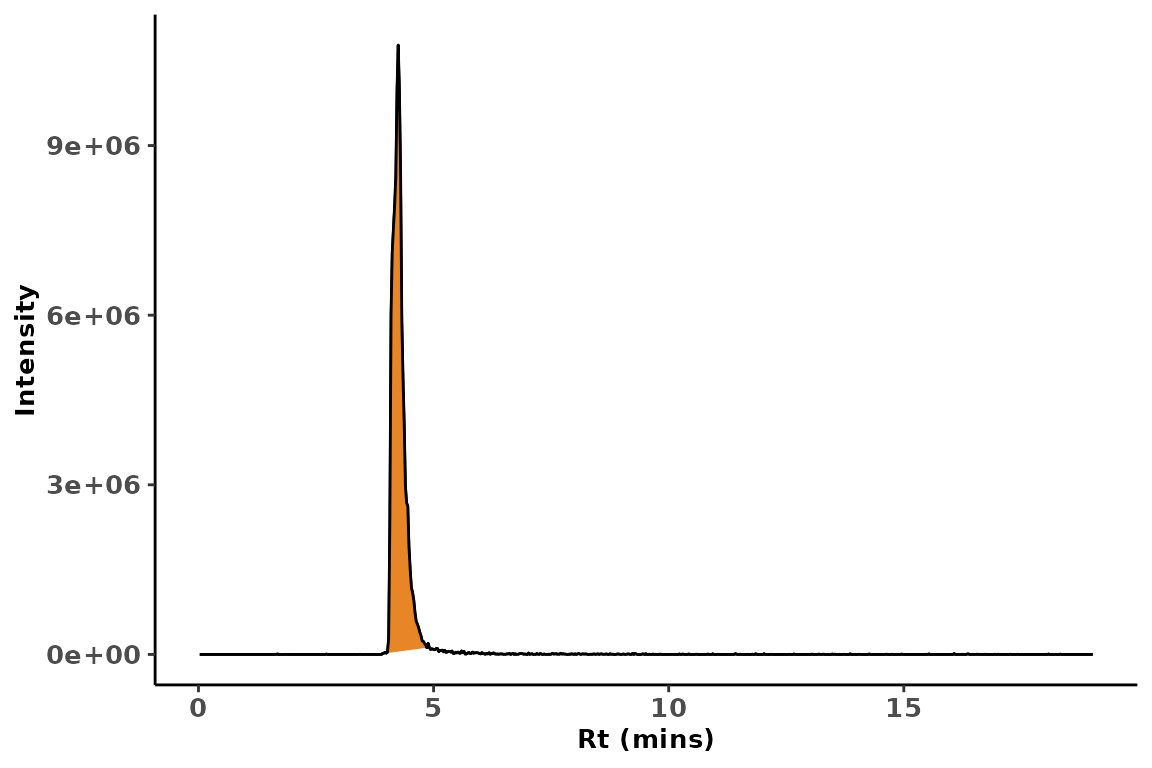
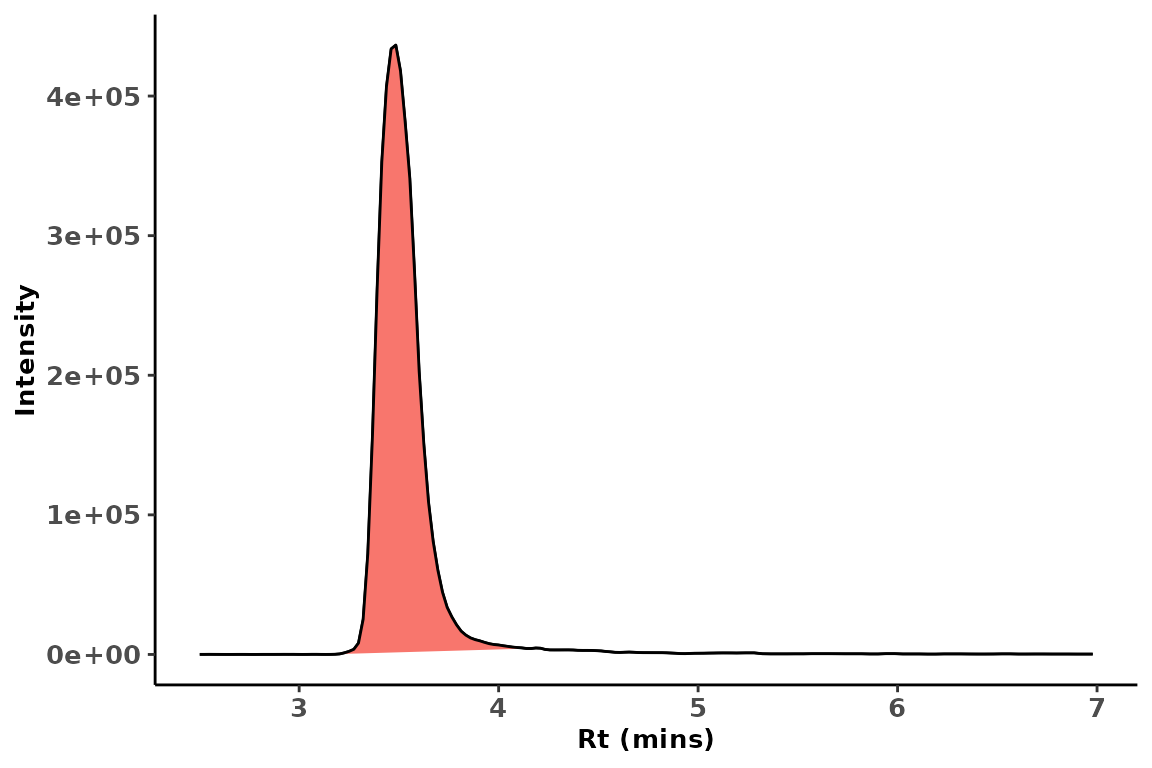
re-build pkgdown site

diff --git a/docs/articles/sRm.html b/docs/articles/sRm.html
@@ -101,18 +101,18 @@
 <span class="co">#&gt; Loading required package: ggplot2</span>
 <span class="co">#&gt; Loading required package: magrittr</span>
 
-<span class="va">chrom_files</span> <span class="op">&lt;-</span> <span class="fu"><a href="https://rdrr.io/r/base/list.files.html">list.files</a></span><span class="op">(</span><span class="fu"><a href="https://rdrr.io/r/base/system.file.html">system.file</a></span><span class="op">(</span><span class="st">'extdata/Thermo_RAW'</span>, package <span class="op">=</span> <span class="st">'sRm'</span><span class="op">)</span>, full.names <span class="op">=</span> <span class="cn">TRUE</span><span class="op">)</span>
+<span class="va">chrom_files</span> <span class="op">&lt;-</span> <span class="fu"><a href="https://rdrr.io/r/base/list.files.html">list.files</a></span><span class="op">(</span><span class="fu"><a href="https://rdrr.io/r/base/system.file.html">system.file</a></span><span class="op">(</span><span class="st">'extdata/Shimadzu_LCD'</span>, package <span class="op">=</span> <span class="st">'sRm'</span><span class="op">)</span>, full.names <span class="op">=</span> <span class="cn">TRUE</span><span class="op">)</span>
 
-<span class="va">srmExp</span> <span class="op">&lt;-</span> <span class="fu"><a href="../reference/openSRM.html">openSRM</a></span><span class="op">(</span><span class="va">chrom_files</span>, source_type <span class="op">=</span> <span class="st">'raw'</span><span class="op">)</span>
+<span class="va">srmExp</span> <span class="op">&lt;-</span> <span class="fu"><a href="../reference/openSRM.html">openSRM</a></span><span class="op">(</span><span class="va">chrom_files</span>, source_type <span class="op">=</span> <span class="st">'lcd'</span><span class="op">)</span>
 
 <span class="va">srmExp</span>
 <span class="co">#&gt; ── SRM Object ──────────────────────────────────────────────────── sRm v0.2.1 ── </span>
 <span class="co">#&gt;  </span>
 <span class="co">#&gt; SRM File Inputs: 4 </span>
 <span class="co">#&gt;  </span>
-<span class="co">#&gt; Transitions measured: 86 </span>
+<span class="co">#&gt; Transitions measured: 107 </span>
 <span class="co">#&gt;  </span>
-<span class="co">#&gt; Object Size: 7.9 Mb</span></code></pre></div>
+<span class="co">#&gt; Object Size: 2.5 Mb</span></code></pre></div>
 <p>The <code>SRM</code> object contains the following data;</p>
 <ul>
 <li>
@@ -168,7 +168,7 @@
 <a href="#plotparent" class="anchor"></a>plotParent</h4>
 <p><code>plotParent</code> use a numeric value of parent mass as an input, and plots all SRM transitions which feature the selected parent mass.</p>
 <div class="sourceCode" id="cb5"><pre class="downlit sourceCode r">
-<code class="sourceCode R"><span class="fu"><a href="../reference/plotParent.html">plotParent</a></span><span class="op">(</span><span class="va">srmExp</span>, <span class="fl">187.026</span><span class="op">)</span></code></pre></div>
+<code class="sourceCode R"><span class="fu"><a href="../reference/plotParent.html">plotParent</a></span><span class="op">(</span><span class="va">srmExp</span>, <span class="fl">303</span><span class="op">)</span></code></pre></div>
 <p><img src="sRm_files/figure-html/plotParent-1.png" width="576" style="display: block; margin: auto;"></p>
 </div>
 </div>
@@ -179,11 +179,11 @@
 <div class="sourceCode" id="cb6"><pre class="downlit sourceCode r">
 <code class="sourceCode R"><span class="va">srmExpPeaks</span> <span class="op">&lt;-</span>
   <span class="fu"><a href="../reference/detectPeaks.html">detectPeaks</a></span><span class="op">(</span><span class="va">srmExp</span>,
-              snthresh <span class="op">=</span> <span class="fl">2</span>,
-              peakwidth <span class="op">=</span> <span class="fu"><a href="https://rdrr.io/r/base/c.html">c</a></span><span class="op">(</span><span class="fl">5</span>,<span class="fl">60</span><span class="op">)</span><span class="op">)</span></code></pre></div>
+              snthresh <span class="op">=</span> <span class="fl">5</span>,
+              peakwidth <span class="op">=</span> <span class="fu"><a href="https://rdrr.io/r/base/c.html">c</a></span><span class="op">(</span><span class="fl">5</span>,<span class="fl">75</span><span class="op">)</span><span class="op">)</span></code></pre></div>
 <p>The <code>plotPeakArea</code> can then be used to determine the quality of the peak integration.</p>
 <div class="sourceCode" id="cb7"><pre class="downlit sourceCode r">
-<code class="sourceCode R"><span class="fu"><a href="../reference/plotPeakArea.html">plotPeakArea</a></span><span class="op">(</span><span class="va">srmExpPeaks</span>, index <span class="op">=</span> <span class="fl">11</span>, sampleName <span class="op">=</span> <span class="st">'QC02'</span><span class="op">)</span></code></pre></div>
+<code class="sourceCode R"><span class="fu"><a href="../reference/plotPeakArea.html">plotPeakArea</a></span><span class="op">(</span><span class="va">srmExpPeaks</span>, index <span class="op">=</span> <span class="fl">5</span>, sampleName <span class="op">=</span> <span class="st">'QC02'</span><span class="op">)</span></code></pre></div>
 <p><img src="sRm_files/figure-html/plotArea-1.png" width="576" style="display: block; margin: auto;"></p>
 </div>
 <div id="peak-grouping" class="section level3">
@@ -191,7 +191,34 @@
 <a href="#peak-grouping" class="anchor"></a>Peak Grouping</h3>
 <p>Once peak detection has been performed, the <code>groupPeaks</code> method can be used to assign features to corresponding peak groups. The only parameter that needs to be set is <code>rt_tolerance</code> which is the retention time width which will be used to group similar peaks together.</p>
 <div class="sourceCode" id="cb8"><pre class="downlit sourceCode r">
-<code class="sourceCode R"><span class="va">srmExpGroups</span> <span class="op">&lt;-</span> <span class="fu"><a href="../reference/groupPeaks.html">groupPeaks</a></span><span class="op">(</span><span class="va">srmExpPeaks</span>, rt_tolerance <span class="op">=</span> <span class="fl">1.5</span><span class="op">)</span></code></pre></div>
+<code class="sourceCode R"><span class="va">srmExpGroups</span> <span class="op">&lt;-</span> <span class="fu"><a href="../reference/groupPeaks.html">groupPeaks</a></span><span class="op">(</span><span class="va">srmExpPeaks</span>, rt_tolerance <span class="op">=</span> <span class="fl">0.5</span><span class="op">)</span></code></pre></div>
+<p>A summary of the peak groups can created using the <code>groupSummary</code> method.</p>
+<div class="sourceCode" id="cb9"><pre class="downlit sourceCode r">
+<code class="sourceCode R"><span class="va">group_table</span> <span class="op">&lt;-</span> <span class="fu"><a href="../reference/groupSummary.html">groupSummary</a></span><span class="op">(</span><span class="va">srmExpGroups</span><span class="op">)</span>
+
+<span class="fu"><a href="https://rdrr.io/r/utils/head.html">head</a></span><span class="op">(</span><span class="va">group_table</span><span class="op">)</span>
+<span class="co">#&gt; # A tibble: 6 x 8</span>
+<span class="co">#&gt; # Groups:   transition [3]</span>
+<span class="co">#&gt;   transition      GroupID    Rt Rtmin Rtmax Rtwidth      SN count</span>
+<span class="co">#&gt;   &lt;chr&gt;           &lt;chr&gt;   &lt;dbl&gt; &lt;dbl&gt; &lt;dbl&gt;   &lt;dbl&gt;   &lt;dbl&gt; &lt;int&gt;</span>
+<span class="co">#&gt; 1 204 &gt; 118.1 (+) G001     5.00  4.58  6.21   1.63     121.     4</span>
+<span class="co">#&gt; 2 204 &gt; 118.1 (+) G002     6.50  6.37  6.99   0.621  16561.     3</span>
+<span class="co">#&gt; 3 204 &gt; 144 (+)   G003     5.00  4.58  6.25   1.67  242567.     3</span>
+<span class="co">#&gt; 4 204 &gt; 144 (+)   G004     6.73  6.37  6.99   0.621  14830.     4</span>
+<span class="co">#&gt; 5 204 &gt; 162 (+)   G005     4.99  4.58  6.17   1.59     411      2</span>
+<span class="co">#&gt; 6 204 &gt; 162 (+)   G006     6.50  6.17  6.99   0.828   5285.     5</span></code></pre></div>
+<p>The output of the <code>groupSummary</code> method is a <code>tibble</code> so it can be easily processed further using <code>dplyr</code> to produce a list of the main GroupIDs which need exporting for further analysis.</p>
+<p>For example, we can filter out any group which have low occupancy (and suspiciously high occupancy), have retention times in the wash phase of the chromatogram gradient or the peak width is too large.</p>
+<div class="sourceCode" id="cb10"><pre class="downlit sourceCode r">
+<code class="sourceCode R"><span class="va">number_of_samples</span> <span class="op">&lt;-</span> <span class="fu"><a href="https://rdrr.io/r/base/nrow.html">nrow</a></span><span class="op">(</span><span class="va">srmExp</span><span class="op">@</span><span class="va">meta</span><span class="op">)</span>
+
+<span class="va">group_table_filtered</span> <span class="op">&lt;-</span>
+  <span class="va">group_table</span> <span class="op">%&gt;%</span> <span class="fu">dplyr</span><span class="fu">::</span><span class="fu"><a href="https://dplyr.tidyverse.org/reference/filter.html">filter</a></span><span class="op">(</span><span class="va">Rt</span> <span class="op">&gt;=</span> <span class="fl">1.0</span> <span class="op">&amp;</span> <span class="va">Rt</span> <span class="op">&lt;=</span> <span class="fl">16.0</span><span class="op">)</span> <span class="op">%&gt;%</span>
+  <span class="fu">dplyr</span><span class="fu">::</span><span class="fu"><a href="https://dplyr.tidyverse.org/reference/filter.html">filter</a></span><span class="op">(</span><span class="va">Rtwidth</span> <span class="op">&lt;=</span> <span class="fl">3</span><span class="op">)</span> <span class="op">%&gt;%</span> <span class="fu">dplyr</span><span class="fu">::</span><span class="fu"><a href="https://dplyr.tidyverse.org/reference/filter.html">filter</a></span><span class="op">(</span><span class="va">count</span> <span class="op">&lt;=</span> <span class="va">number_of_samples</span><span class="op">)</span></code></pre></div>
+<p>The <code>plotGroup</code> method can also be used to a visual inspection of the group.</p>
+<div class="sourceCode" id="cb11"><pre class="downlit sourceCode r">
+<code class="sourceCode R"><span class="fu"><a href="../reference/plotGroup.html">plotGroup</a></span><span class="op">(</span><span class="va">srmExpGroups</span>, group <span class="op">=</span> <span class="st">'G001'</span><span class="op">)</span></code></pre></div>
+<p><img src="sRm_files/figure-html/plotGroup-1.png" width="700"></p>
 </div>
 <div id="summarising-and-exporting" class="section level3">
 <h3 class="hasAnchor">

diff --git a/docs/reference/detectPeaks.html b/docs/reference/detectPeaks.html
@@ -126,7 +126,7 @@
     <pre class="usage"><span class='fu'>detectPeaks</span><span class='op'>(</span><span class='va'>object</span>, <span class='va'>snthresh</span>, <span class='va'>peakwidth</span><span class='op'>)</span>
 
 <span class='co'># S4 method for SRM</span>
-<span class='fu'>detectPeaks</span><span class='op'>(</span><span class='va'>object</span>, snthresh <span class='op'>=</span> <span class='fl'>10</span>, peakwidth <span class='op'>=</span> <span class='fl'>30</span><span class='op'>)</span></pre>
+<span class='fu'>detectPeaks</span><span class='op'>(</span><span class='va'>object</span>, snthresh <span class='op'>=</span> <span class='fl'>10</span>, peakwidth <span class='op'>=</span> <span class='fu'><a href='https://rdrr.io/r/base/c.html'>c</a></span><span class='op'>(</span><span class='fl'>2</span>, <span class='fl'>30</span><span class='op'>)</span><span class='op'>)</span></pre>
 
     <h2 class="hasAnchor" id="arguments"><a class="anchor" href="#arguments"></a>Arguments</h2>
     <table class="ref-arguments">

diff --git a/docs/reference/groupPeaksInternal.html b/docs/reference/groupPeaksInternal.html
@@ -123,7 +123,7 @@
     <p>Group detected peaks based on retention time. Based on <code><a href='https://rdrr.io/pkg/MsCoreUtils/man/group.html'>MsCoreUtils::group</a></code></p>
     </div>
 
-    <pre class="usage"><span class='fu'>groupPeaksInternal</span><span class='op'>(</span><span class='va'>x</span>, rt_tolerance <span class='op'>=</span> <span class='fl'>0</span><span class='op'>)</span></pre>
+    <pre class="usage"><span class='fu'>groupPeaksInternal</span><span class='op'>(</span><span class='va'>x</span>, <span class='va'>rt_tolerance</span><span class='op'>)</span></pre>
 
     <h2 class="hasAnchor" id="arguments"><a class="anchor" href="#arguments"></a>Arguments</h2>
     <table class="ref-arguments">
